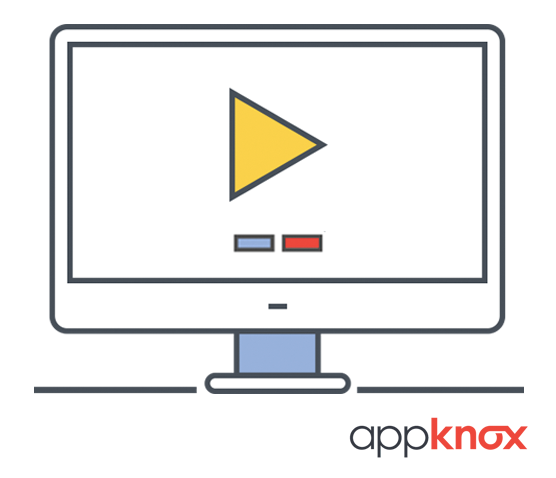
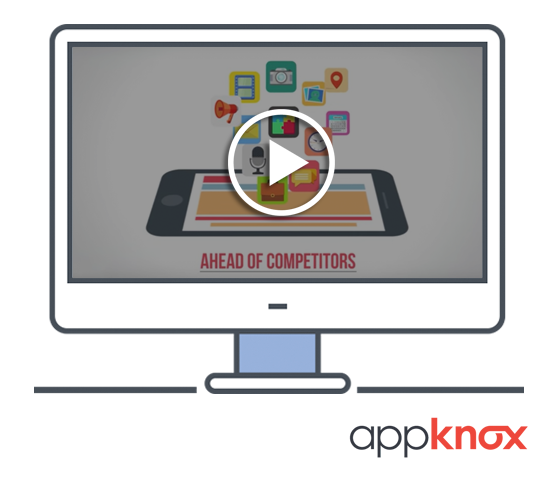
enhance: update the top slide

diff --git a/_i18n/en/index/slider.html b/_i18n/en/index/slider.html
@@ -25,7 +25,7 @@
         </div>
         <div class="image-video-modal">
           <div class="col-md-6 col-sm-6 slide-img-zone">
-            <img src="/img/slides/top-slides/slider-1.gif" class="ak-ele-animate" alt="Mobile application security" data-init-css='{"width":"50%","marginTop":"-10px","marginLeft":"0px","opacity":0.0}' data-appear-css='{"width":"80%","marginTop":"10px","left":"0px","opacity":1}' data-perish-css='{"opacity":0,"top":"-60px"}' data-ak-anim-time="300">
+            <img src="/img/slides/top-slides/slider-1.png" class="ak-ele-animate" alt="Mobile application security" data-init-css='{"width":"50%","marginTop":"-10px","marginLeft":"0px","opacity":0.0}' data-appear-css='{"width":"80%","marginTop":"30px","left":"0px","opacity":1}' data-perish-css='{"opacity":0,"top":"-60px"}' data-ak-anim-time="300">
           </div>
         </div>
       </li>
